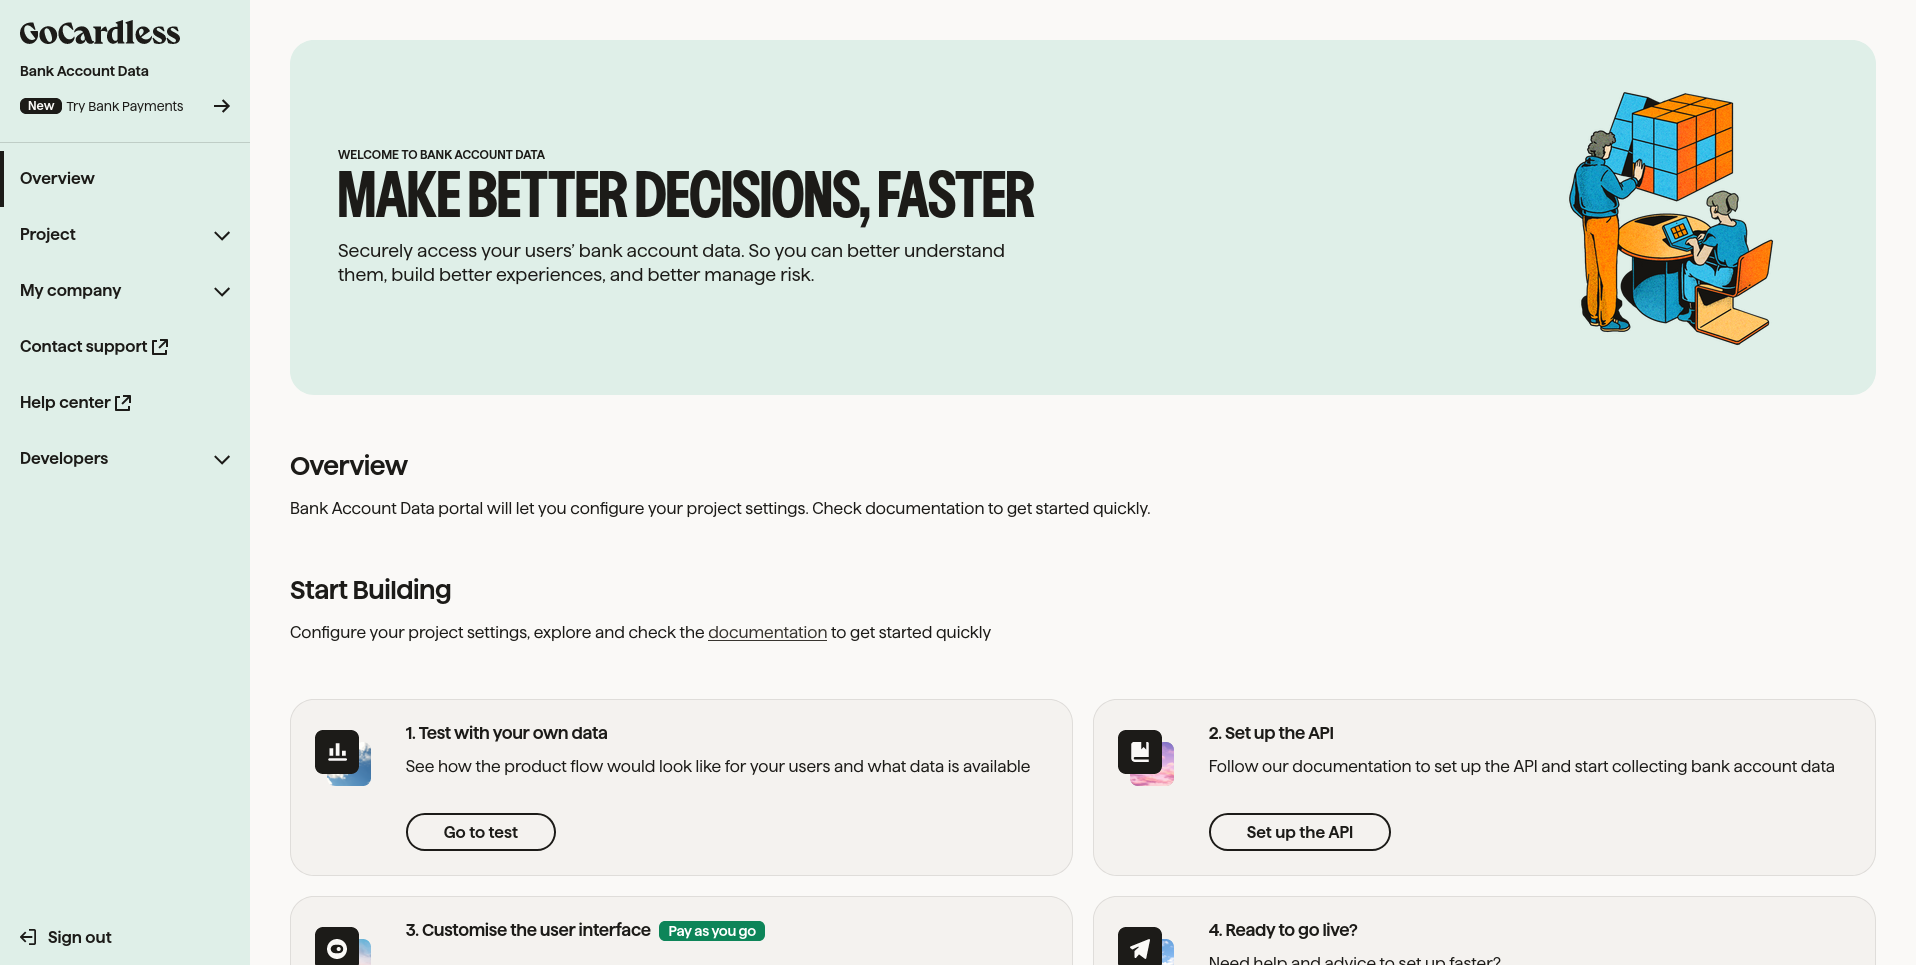
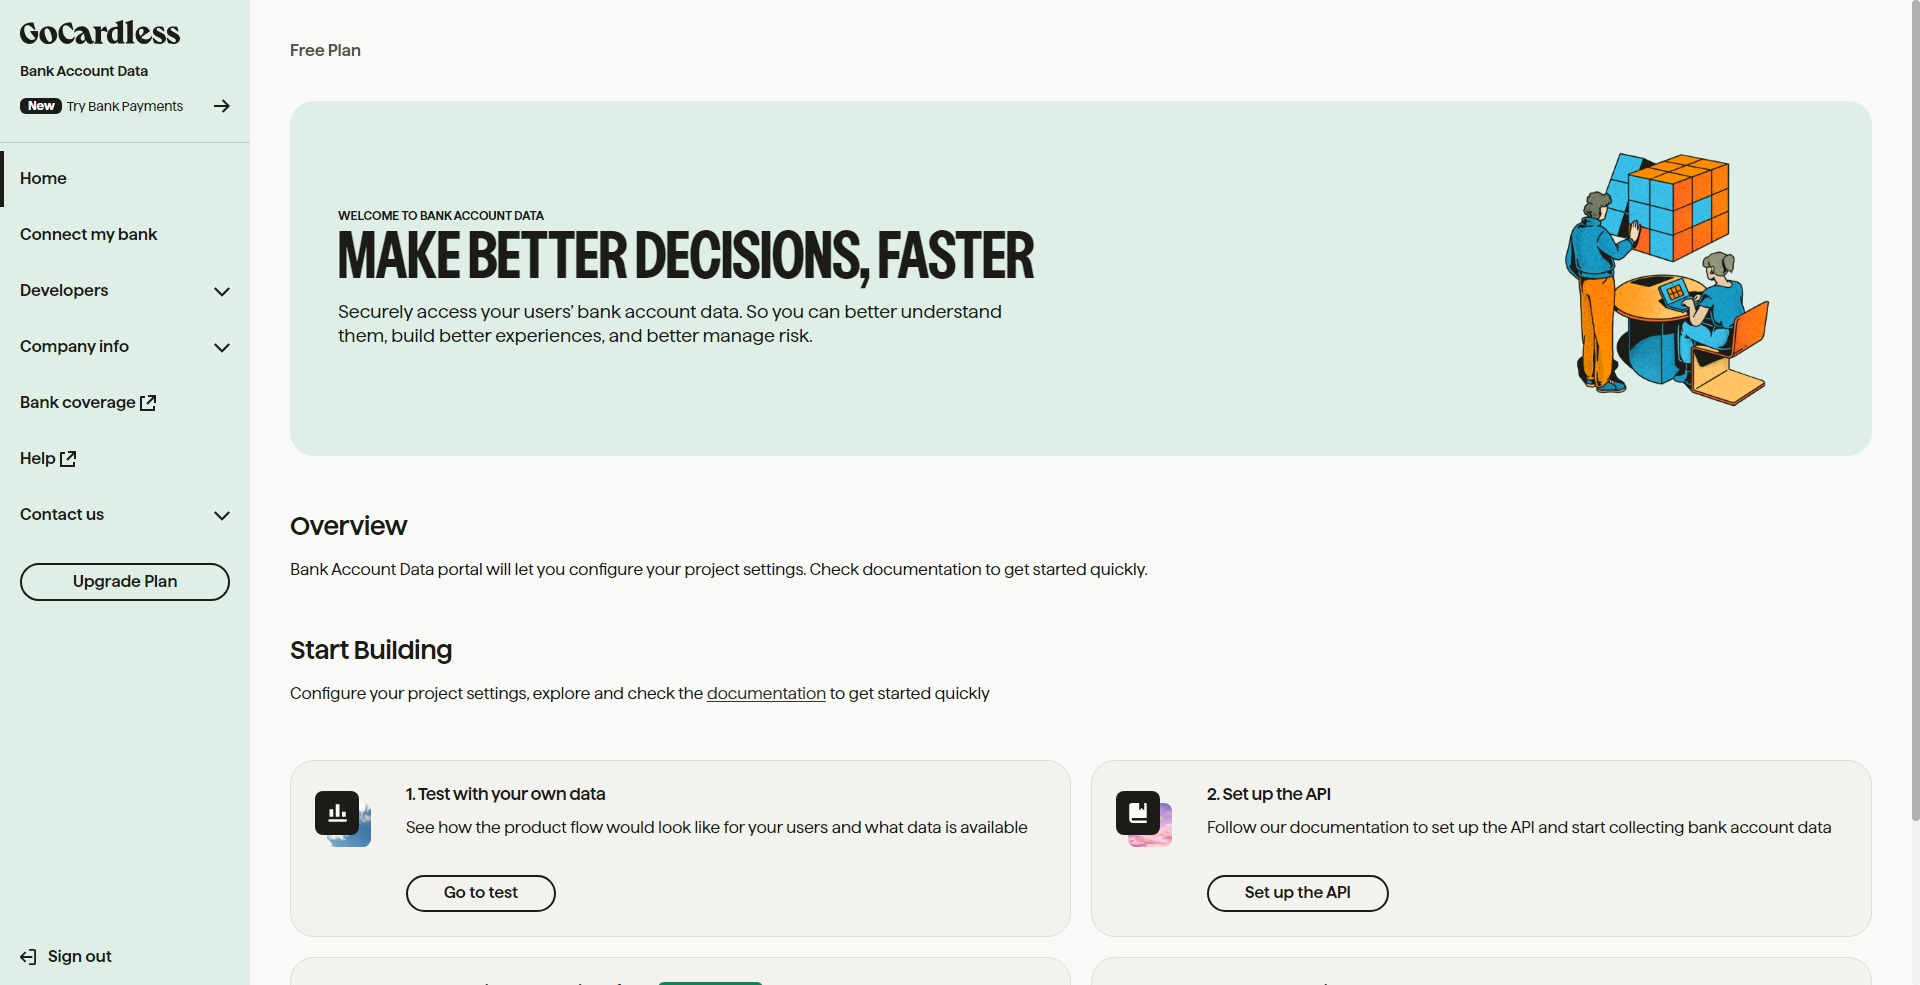
Update bank-sync.md (#300)
Location in menu changed, also updated the screenshots.

diff --git a/docs/advanced/bank-sync.md b/docs/advanced/bank-sync.md
@@ -24,7 +24,7 @@ GoCardless
 **Create SECRET and KEY for Actual**
 
 1. Create an account with GoCardless - https://bankaccountdata.gocardless.com/overview/
-2. Log into your account dashboard at the same URL and select **Project->User secrets** from the left side menu
+2. Log into your account dashboard at the same URL and select **Developers->User secrets** from the left side menu
 
 ![](/static/img/connecting-your-bank/connecting-your-bank-gocardless-01.png)
 
